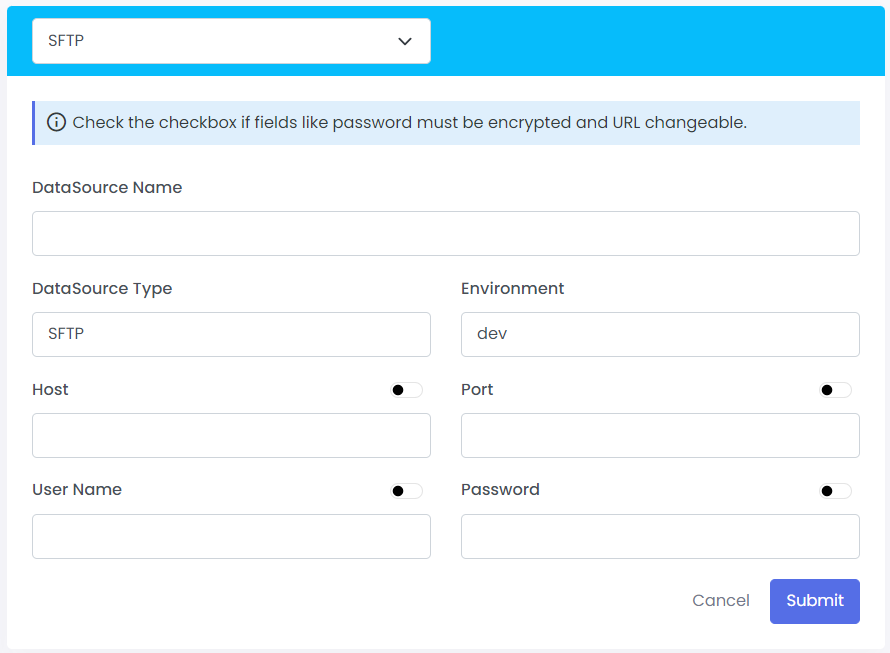
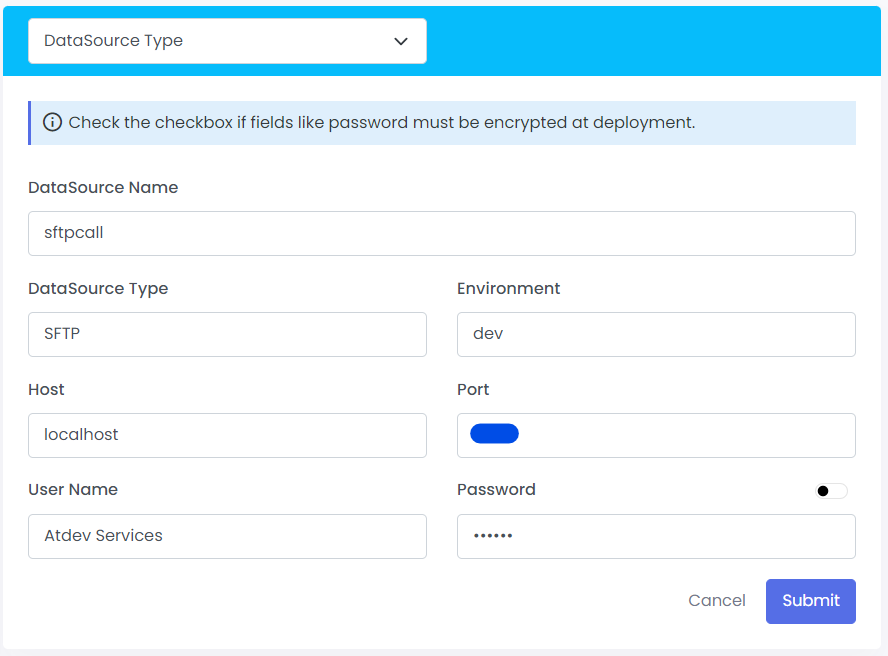
Updated Document

diff --git a/docs/Core Development/Connectors/FILE.md b/docs/Core Development/Connectors/FILE.md
@@ -42,15 +42,100 @@ left click on connector, you can define the **File Connector** configration
 Define configuration for file connector to read a file by selecting operation as Read. Add destination in properties to poll the file.
 Provide the file name and select operation(MOVE or DELETE) to define further course of action for the file read from the destination. 
 
-<img src={useBaseUrl('/img/Connectors/MQ/ReadMQ.png')} />;
+<img src={useBaseUrl('/img/Connectors/Read_File_config.png')} />;
 
+<table>
+<thead>
+<tr>
+<th>Fields</th>
+<th>Description</th>
+<th>Example</th>
+</tr>
+</thead>
+<tbody>
+<tr>
+<td>File Operation</td>
+<td>Read/Write</td>
+<td>Read</td>
+</tr>
+<tr>
+<td>Connector</td>
+<td>Connector which is configured in connections properties</td>
+<td>Successrecord</td>
+</tr>
+<tr>
+<td>File Name</td>
+<td>Name of the file to be processed</td>
+<td>Contacts</td>
+</tr>
+<tr>
+<td>File Type</td>
+<td>Format of File</td>
+<td>CSV</td>
+</tr>
+<tr>
+<td>OutPut</td>
+<td>Output</td>
+<td>Rest_output</td>
+</tr>
+<tr>
+<td>Operation</td>
+<td>Operation of the file</td>
+<td>Move</td>
+</tr>
+</tbody>
+</table>
 
 ## Write File Operation
 Define configuration for file connector to write a file by selecting operation as Write. Add destination in properties to write the file.
 Provide the file name and file type(XML, JSON etc.). Please select Append to continue write operation in the same file or select OverWrite to overwrite the file every time operation is performed.
 
 
-<img src={useBaseUrl('/img/Connectors/MQ/WriteMQ.png')} />;
+<img src={useBaseUrl('/img/Connectors/Write_file_config2.png')} />;
+
+<table>
+<thead>
+<tr>
+<th>Fields</th>
+<th>Description</th>
+<th>Example</th>
+</tr>
+</thead>
+<tbody>
+<tr>
+<td>File Operation</td>
+<td>Read/Write</td>
+<td>Write</td>
+</tr>
+<tr>
+<td>Connector</td>
+<td>Connector which is configured in connections properties</td>
+<td>Successrecords</td>
+</tr>
+<tr>
+<td>File Name</td>
+<td>Processed File</td>
+<td>Contacts</td>
+</tr>
+<tr>
+<td>File Type</td>
+<td>Format of File</td>
+<td>CSV</td>
+</tr>
+<tr>
+<td>Input</td>
+<td>Input</td>
+<td>REQUEST_PAYLOAD</td>
+</tr>
+<tr>
+<td>Append/OverWrite</td>
+<td></td>
+<td>OverWrite</td>
+</tr>
+</tbody>
+</table>
+
+
 
 
 

diff --git a/docs/Core Development/Connectors/SFTP.md b/docs/Core Development/Connectors/SFTP.md
@@ -20,4 +20,102 @@ A design that is consistent with that of File Connector and FTP Connector
 
 The same set of operations is available on these Connectors, and they behave similarly.
 
+Drag and drop the **SFTP Connector**
+
 <img src={useBaseUrl('/img/Connectors/SFTP_connector.png')} />;
+
+### Configuring SFTP Connector
+left click on connector, you can define the **SFTP Connector** configration
+
+## Read SFTP Connector
+
+<img src={useBaseUrl('/img/Connectors/sftp_read.png')} />;
+
+<table>
+<thead>
+<tr>
+<th>Fields</th>
+<th>Description</th>
+<th>Example</th>
+</tr>
+</thead>
+<tbody>
+<tr>
+<td>Type</td>
+<td>Read/Write</td>
+<td>Read</td>
+</tr>
+<tr>
+<td>Datasource Name</td>
+<td>Datasource Name which is configured in connections properties</td>
+<td>sftpcall</td>
+</tr>
+<tr>
+<td>File Name</td>
+<td>Name of the file to be processed</td>
+<td>Contacts</td>
+</tr>
+<tr>
+<td>File Type</td>
+<td>Format of File</td>
+<td>CSV</td>
+</tr>
+<tr>
+<td>OutPut</td>
+<td>Output</td>
+<td>Rest_output</td>
+</tr>
+<tr>
+<td>Operation</td>
+<td>Operation of the file</td>
+<td>Move</td>
+</tr>
+</tbody>
+</table>
+
+## Write FTP Connector
+
+<img src={useBaseUrl('/img/Connectors/sftp_write.png')} />;
+
+
+<table>
+<thead>
+<tr>
+<th>Fields</th>
+<th>Description</th>
+<th>Example</th>
+</tr>
+</thead>
+<tbody>
+<tr>
+<td>Type</td>
+<td>Read/Write</td>
+<td>Write</td>
+</tr>
+<tr>
+<td>Datasource Name</td>
+<td>Datasource Name which is configured in connections properties</td>
+<td>sftpcall</td>
+</tr>
+<tr>
+<td>File Name</td>
+<td>Processed File</td>
+<td>Contacts</td>
+</tr>
+<tr>
+<td>File Type</td>
+<td>Format of File</td>
+<td>CSV</td>
+</tr>
+<tr>
+<td>Input</td>
+<td>Input</td>
+<td>REQUEST_PAYLOAD</td>
+</tr>
+<tr>
+<td>Append/OverWrite</td>
+<td></td>
+<td>OverWrite</td>
+</tr>
+</tbody>
+</table>

diff --git a/docs/Core Development/Property Config/Connection Properties/DataSource SFTP.md b/docs/Core Development/Property Config/Connection Properties/DataSource SFTP.md
@@ -43,7 +43,7 @@ The SFTP DataSource grants access to files and directories housed within an SFTP
 <tr>
 <td>DataSource Name</td>
 <td>Datasource Name which is configured in connections properties</td>
-<td></td>
+<td>sftpcall</td>
 </tr>
 <tr>
 <td>DataSource Type</td>
@@ -58,22 +58,22 @@ The SFTP DataSource grants access to files and directories housed within an SFTP
 <tr>
 <td>Host</td>
 <td>A hostname is a domain name assigned to a host computer</td>
-<td>abcd</td>
+<td>localhost</td>
 </tr>
 <tr>
 <td>Port</td>
 <td>A port is a virtual point where network connections start and end.</td>
-<td>123</td>
+<td>21***</td>
 </tr>
 <tr>
 <td>User Name</td>
 <td>A name that uses for identification purposes when logging </td>
-<td></td>
+<td>Atdev Services</td>
 </tr>
 <tr>
 <td>Password</td>
 <td>A password is a string of characters used to verify the identity of a user during the authentication process</td>
-<td></td>
+<td>12***</td>
 </tr>
 </tbody>
 </table>

diff --git a/docs/Core Development/Property Config/Connection Properties/DataSource FTP.md b/docs/Core Development/Property Config/Connection Properties/DataSource FTP.md
@@ -43,7 +43,7 @@ The FTP DataSource facilitates access to files and directories hosted on an FTP 
 <tr>
 <td>DataSource Name</td>
 <td>Datasource Name which is configured in connections properties</td>
-<td></td>
+<td>ftpcall</td>
 </tr>
 <tr>
 <td>DataSource Type</td>
@@ -58,22 +58,22 @@ The FTP DataSource facilitates access to files and directories hosted on an FTP 
 <tr>
 <td>Host</td>
 <td>A hostname is a domain name assigned to a host computer</td>
-<td>abcd</td>
+<td>localhost</td>
 </tr>
 <tr>
 <td>Port</td>
 <td>A port is a virtual point where network connections start and end.</td>
-<td>123</td>
+<td>12***</td>
 </tr>
 <tr>
 <td>User Name</td>
 <td>A name that uses for identification purposes when logging </td>
-<td></td>
+<td>Atdev</td>
 </tr>
 <tr>
 <td>Password</td>
 <td>A password is a string of characters used to verify the identity of a user during the authentication process</td>
-<td></td>
+<td>12***</td>
 </tr>
 </tbody>
 </table>

diff --git a/docs/Core Development/Connectors/FTP.md b/docs/Core Development/Connectors/FTP.md
@@ -25,9 +25,9 @@ The same set of operations is available using these two Connectors, and they beh
 
 Follow these steps to set up and test a connection to your **FTP**  by creating a reusable global variable for the **FTP** Connector to reference.
 
-<img src={useBaseUrl('/img/Connectors/FTP_connector.png')} />;
-
 Drag and drop the **FTP Connector**
+
+<img src={useBaseUrl('/img/Connectors/FTP_connector.png')} />;
 
 ### Configuring FTP Connector
 left click on connector, you can define the **FTP Connector** configration
